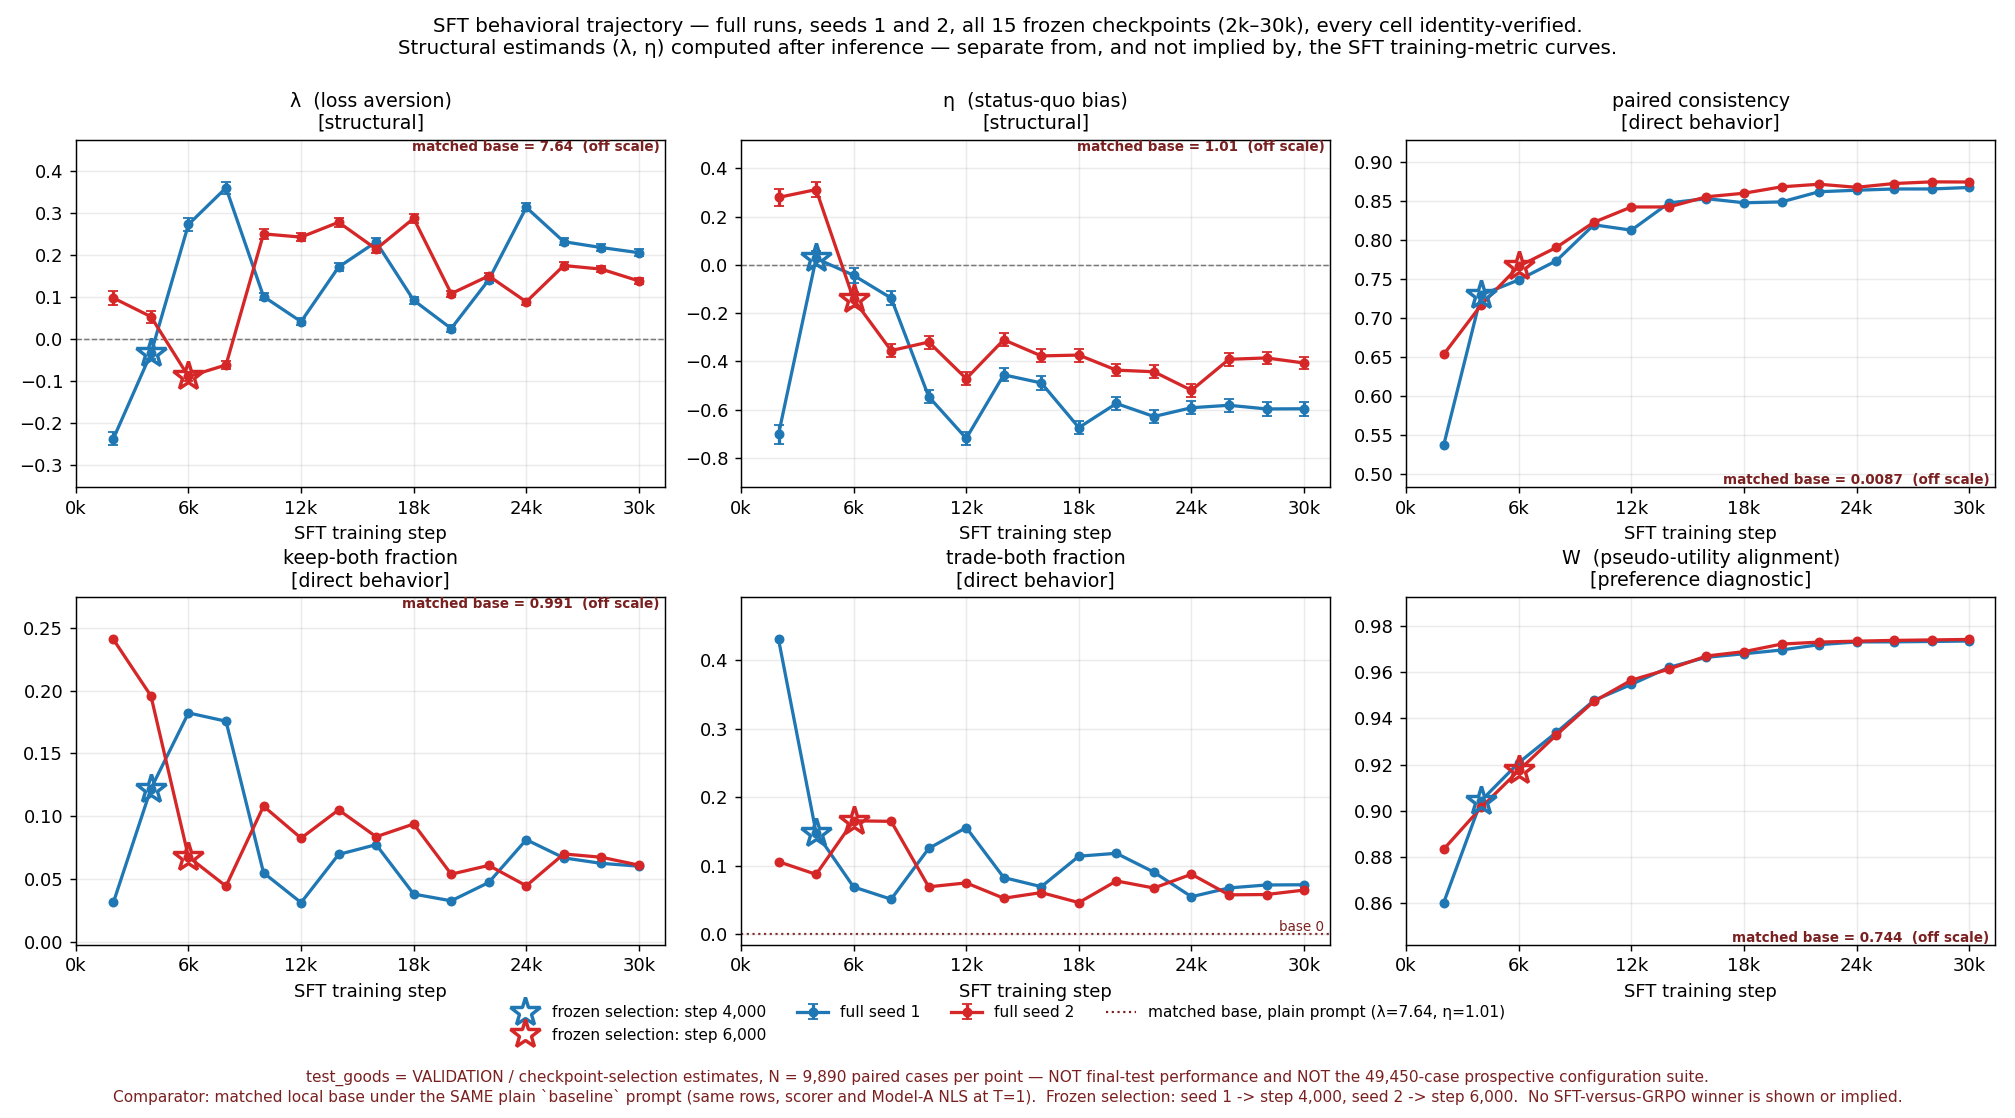
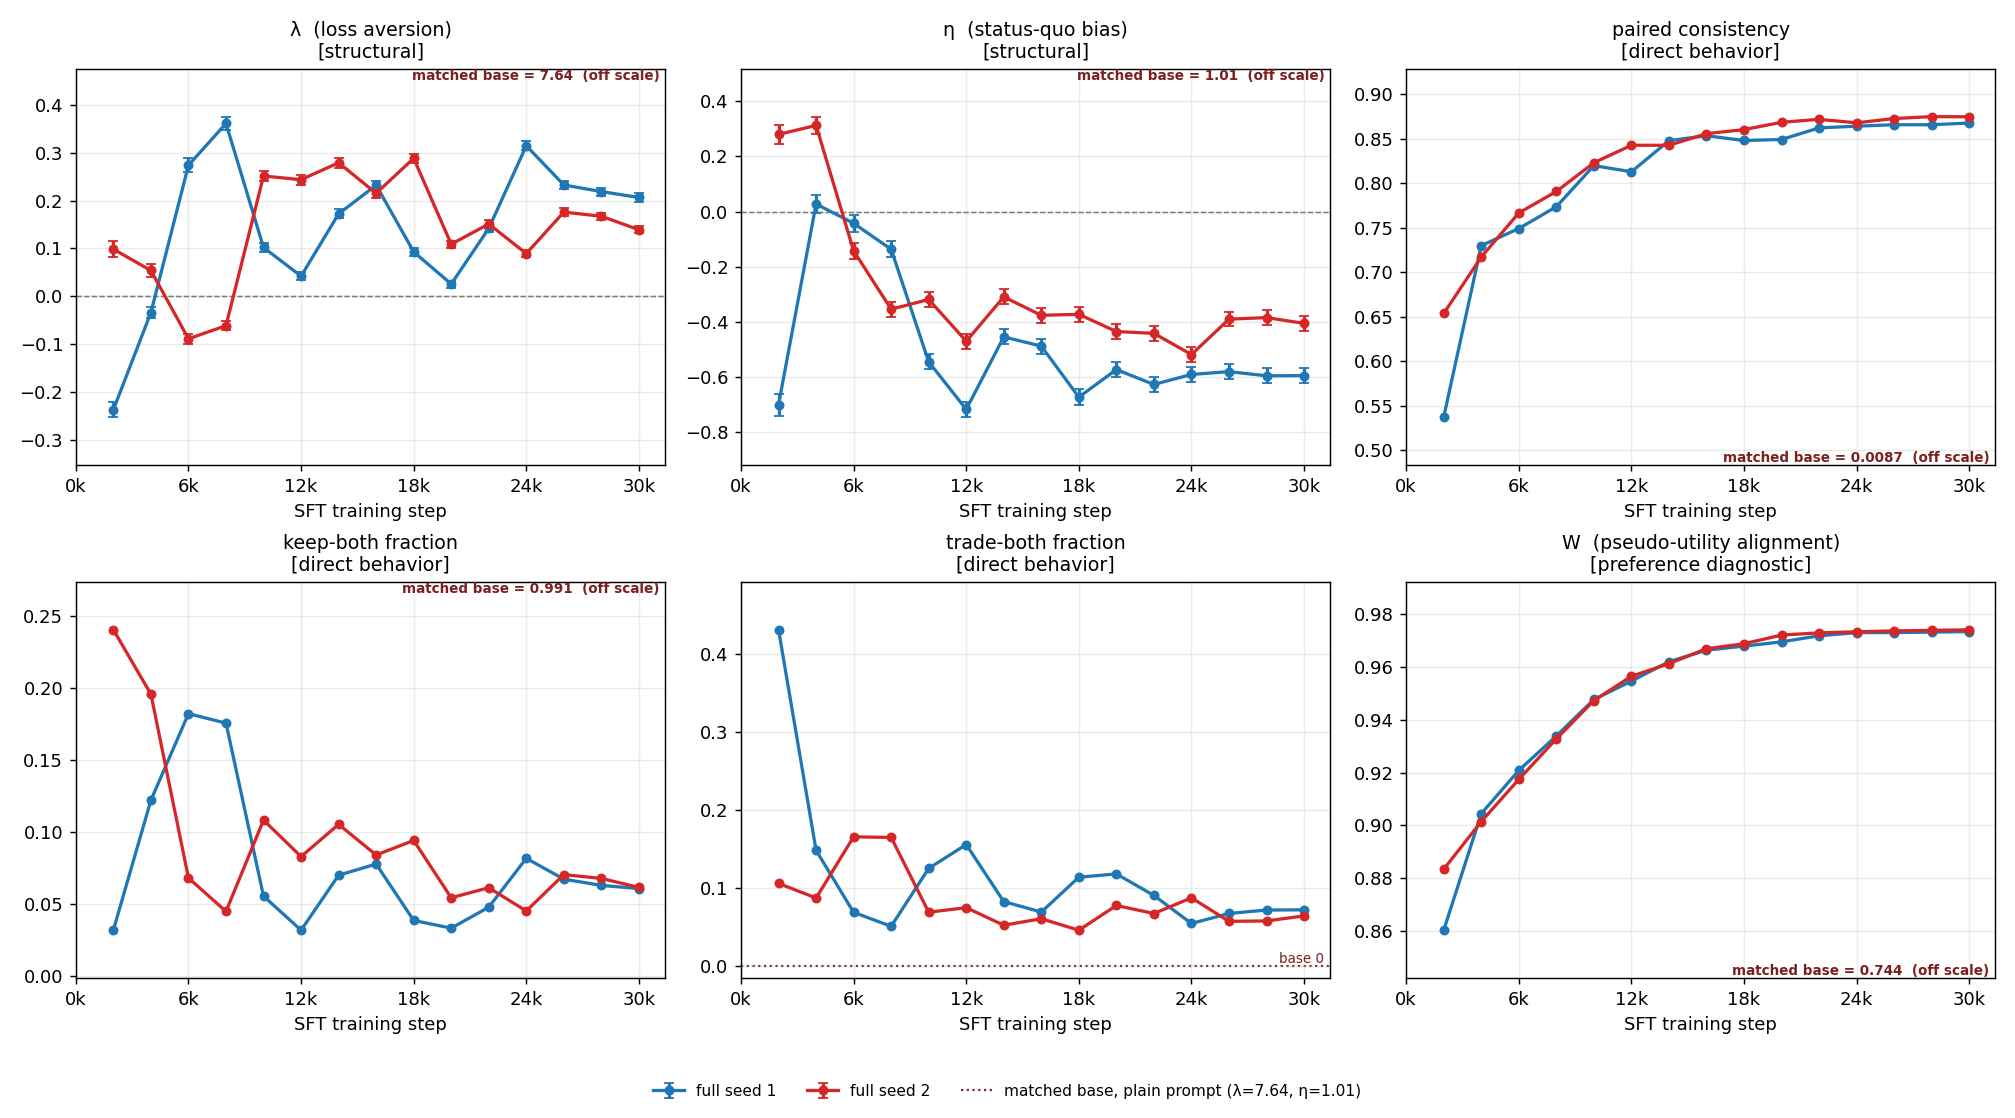
Behavioral figure: drop the surrounding text and the selection markers
sft_behavioral_trajectory.png is now the panels alone — no suptitle, no footer
caption, and no frozen-selection stars. It is meant to drop into a document
whose caption carries the context, so the chrome was redundant there.

Kept the bottom series key: without it the two colours are unidentifiable and
the matched-base reference line is unexplained. The in-panel base annotations
stay too, since they sit inside the axes and carry the comparison.

Nothing was removed from the record, only from the picture. The frozen selection
(seed 1 -> step 4,000, seed 2 -> step 6,000) is still reported in
sft_training_summary.md, in sft_training_summary.json under
behavioral.frozen_selection with its manifest hash and provenance note, and in
the selector's own manifests under results/checkpoint_selection/. Likewise the
caveats the footer used to print — test_goods is VALIDATION and
checkpoint-selection data rather than final-test performance, the comparator is
the matched local base under the same plain prompt, and no SFT-versus-GRPO
winner is shown or implied — remain in README.md, the summary and the manifest.

Anyone reusing this figure should carry those points in the caption, since the
image no longer states them itself.

The pilot branch is deliberately unchanged: a pilot figure stripped of its
EXPLORATORY / incomplete-grid labelling would be misleading on its own.

diff --git a/eval/plot_sft_training_dynamics.py b/eval/plot_sft_training_dynamics.py
@@ -1224,15 +1224,10 @@ def plot_behavioural(df: pd.DataFrame, path: Path, status: dict | None = None) -
             else:
                 ax.plot(sub["step"], sub[col], color=colour, marker="o", lw=1.8,
                         ms=4.5, label=label, zorder=3)
-            # Frozen selected checkpoint — marked, never chosen here.
-            picked = (selection.get(str(seed)) or {}).get("selected_step")
-            if picked is not None:
-                hit = sub[sub["step"] == picked]
-                if not hit.empty and np.isfinite(hit[col].iloc[0]):
-                    ax.plot(hit["step"], hit[col], marker="*", ms=17,
-                            mfc="none", mec=colour, mew=1.9, ls="none",
-                            zorder=5,
-                            label=f"frozen selection: step {picked:,}")
+            # The frozen selection is deliberately NOT drawn: this figure shows
+            # the trajectory only. The selection remains recorded in
+            # sft_training_summary.json / .md and in the selector's own
+            # manifests under results/checkpoint_selection/.
         if zero:
             ax.axhline(0.0, color="0.4", lw=0.8, ls="--", zorder=1)
         # Margins must be applied BEFORE the base is drawn: _mark_base decides
@@ -1264,28 +1259,17 @@ def plot_behavioural(df: pd.DataFrame, path: Path, status: dict | None = None) -
                   f"η={base['eta']:.3g})")
     if h2:
         fig.legend(h2, l2, loc="lower center", ncol=min(len(h2), 4),
-                   frameon=False, fontsize=8.5, bbox_to_anchor=(0.5, 0.055))
+                   frameon=False, fontsize=8.5,
+                   bbox_to_anchor=(0.5, 0.005 if is_full else 0.055))
 
     if is_full:
-        picks = ", ".join(
-            f"seed {k} -> step {(v or {}).get('selected_step'):,}"
-            for k, v in sorted(selection.items())
-            if (v or {}).get("selected_step") is not None) or "not yet run"
-        fig.text(0.5, 0.012,
-                 "test_goods = VALIDATION / checkpoint-selection estimates, "
-                 "N = 9,890 paired cases per point — NOT final-test performance "
-                 "and NOT the 49,450-case prospective configuration suite.\n"
-                 "Comparator: matched local base under the SAME plain `baseline` "
-                 "prompt (same rows, scorer and Model-A NLS at T=1).  "
-                 f"Frozen selection: {picks}.  "
-                 "No SFT-versus-GRPO winner is shown or implied.",
-                 fontsize=8.5, ha="center", va="bottom", color="#7a2020")
-        fig.suptitle(
-            "SFT behavioral trajectory — full runs, seeds 1 and 2, all 15 frozen "
-            "checkpoints (2k–30k), every cell identity-verified.\n"
-            "Structural estimands (λ, η) computed after inference — separate "
-            "from, and not implied by, the SFT training-metric curves.",
-            fontsize=11, y=0.985, va="top")
+        # No suptitle and no footer: this figure is meant to be dropped into a
+        # document whose CAPTION carries the context. The caveats it would
+        # otherwise print — test_goods is VALIDATION / checkpoint-selection data
+        # rather than final-test performance, the comparator is the matched base
+        # under the same plain prompt, and no SFT-vs-GRPO winner is implied —
+        # remain in README.md, sft_training_summary.{json,md} and the manifest.
+        pass
     else:
         fig.text(0.5, 0.012,
                  "EXPLORATORY seed-1 PILOT  ·  test_goods = VALIDATION  ·  incomplete "
@@ -1301,7 +1285,10 @@ def plot_behavioural(df: pd.DataFrame, path: Path, status: dict | None = None) -
             "implied by, the SFT training-metric curves.", fontsize=11, y=0.985,
             va="top")
     fig.tight_layout()
-    fig.subplots_adjust(top=0.875, bottom=0.155 if is_full else 0.10)
+    if is_full:
+        fig.subplots_adjust(bottom=0.125)   # room for the series key only
+    else:
+        fig.subplots_adjust(top=0.875, bottom=0.10)
     fig.savefig(path, dpi=130)
     plt.close(fig)
 
